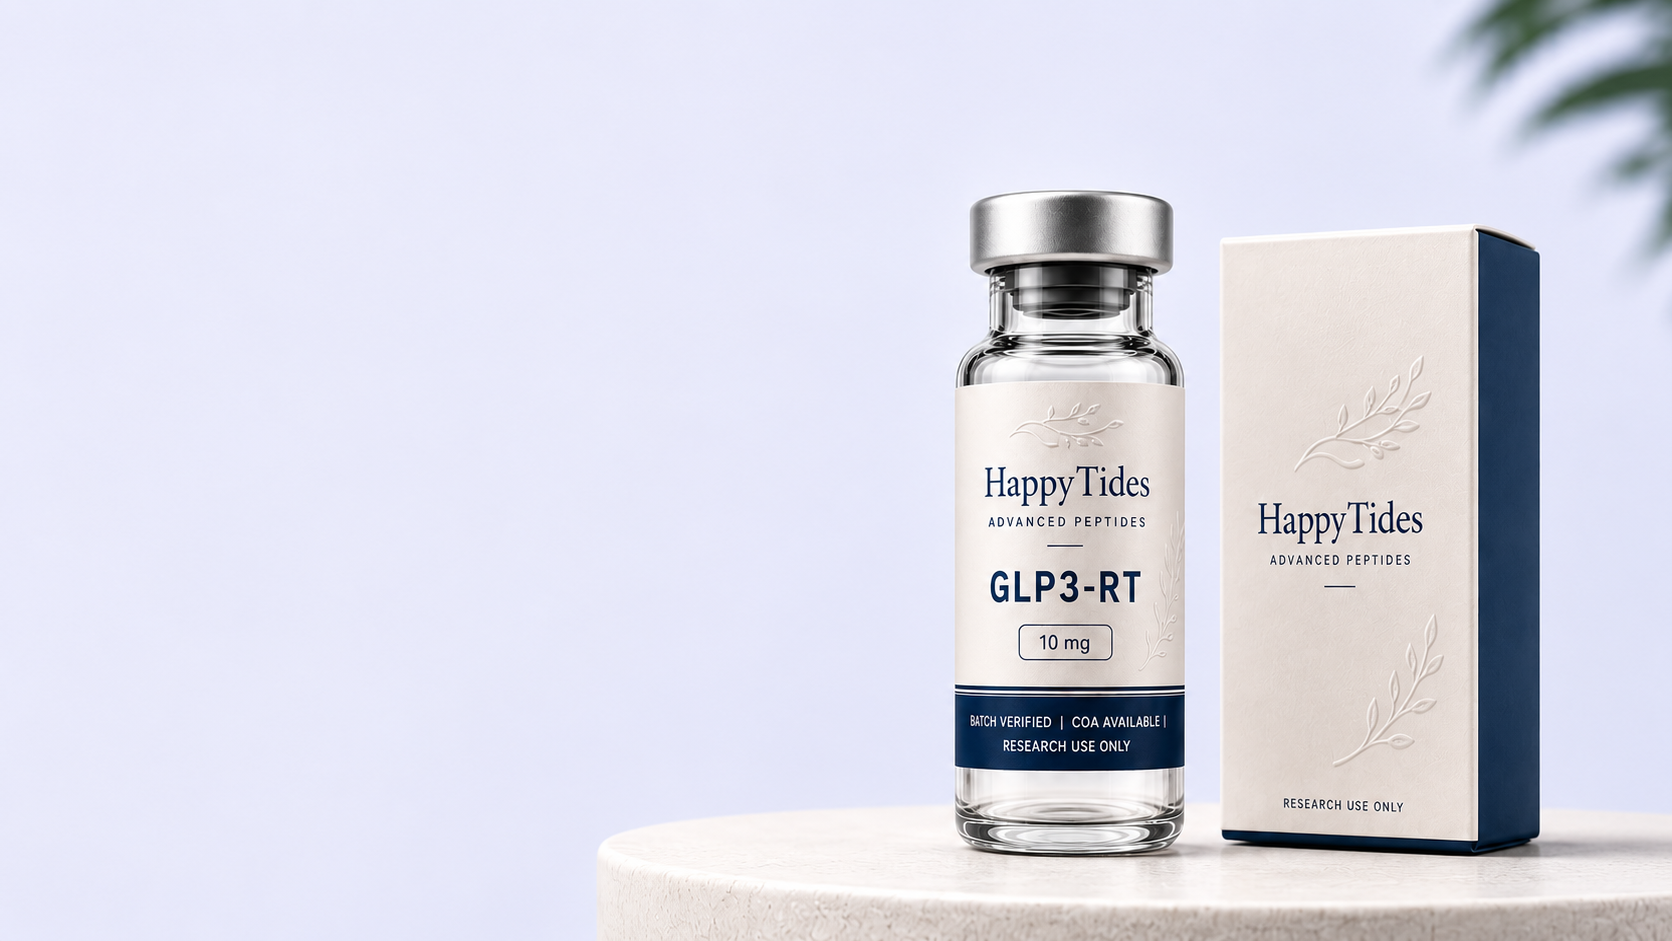
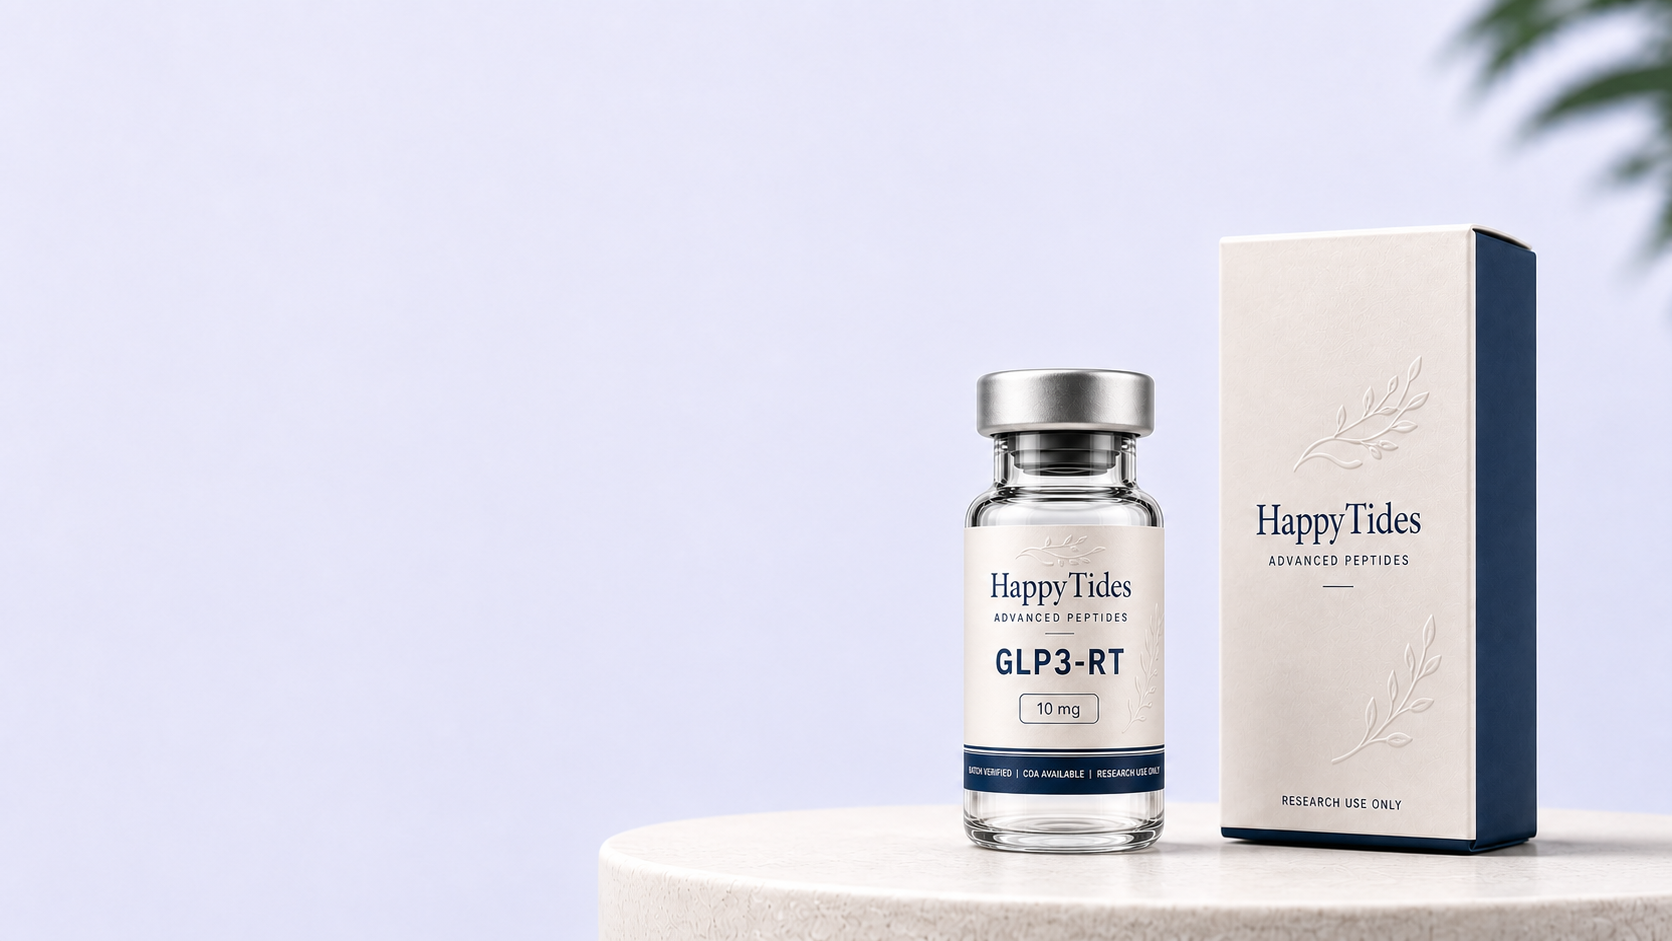
feat: enhance homepage with secure connection info and update metadata

diff --git a/components/launch-access-form.tsx b/components/launch-access-form.tsx
@@ -1,46 +1,17 @@
 "use client"
 
 import { useState } from "react"
-import { ArrowRight, Mail, Phone, ShieldCheck, User, Tag, AlertCircle } from "lucide-react"
+import { ArrowRight, Mail, Phone, ShieldCheck, User, Tag } from "lucide-react"
 
 export function LaunchAccessForm() {
   const [submitted, setSubmitted] = useState(false)
   const [loading, setLoading] = useState(false)
   const [error, setError] = useState("")
-  const [validationErrors, setValidationErrors] = useState<Record<string, string>>({})
   const [form, setForm] = useState({ name: "", email: "", phone: "", affiliateCode: "" })
-
-  function validateForm() {
-    const errors: Record<string, string> = {}
-
-    if (!form.name.trim()) {
-      errors.name = "Please enter your full name"
-    }
-
-    if (!form.email.trim()) {
-      errors.email = "Please enter your email address"
-    } else if (!/^[^\s@]+@[^\s@]+\.[^\s@]+$/.test(form.email)) {
-      errors.email = "Please enter a valid email address (example: [email redacted])"
-    }
-
-    if (!form.phone.trim()) {
-      errors.phone = "Please enter your phone number"
-    } else if (form.phone.length < 10) {
-      errors.phone = "Please enter a complete phone number (at least 10 digits)"
-    }
-
-    setValidationErrors(errors)
-    return Object.keys(errors).length === 0
-  }
 
   async function handleSubmit(e: React.FormEvent) {
     e.preventDefault()
     setError("")
-
-    if (!validateForm()) {
-      return
-    }
-
     setLoading(true)
 
     try {
@@ -137,7 +108,6 @@ export function LaunchAccessForm() {
   return (
     <form
       onSubmit={handleSubmit}
-      noValidate
       className="rounded-3xl p-6"
       style={{
         border: "1px solid #e5e7eb",
@@ -161,29 +131,14 @@ export function LaunchAccessForm() {
               id="la-name"
               name="name"
               type="text"
+              required
               value={form.name}
-              onChange={(e) => {
-                setForm({ ...form, name: e.target.value })
-                if (validationErrors.name) {
-                  setValidationErrors({ ...validationErrors, name: "" })
-                }
-              }}
+              onChange={(e) => setForm({ ...form, name: e.target.value })}
               placeholder="Your full name"
               className={inputClass}
-              style={{
-                ...inputStyle,
-                borderColor: validationErrors.name ? "#fecaca" : "#e5e7eb",
-              }}
+              style={inputStyle}
             />
           </div>
-          {validationErrors.name && (
-            <div className="mt-2 flex items-start gap-2">
-              <AlertCircle className="h-4 w-4 flex-shrink-0 mt-0.5" style={{ color: "#dc2626" }} />
-              <span className="text-sm" style={{ color: "#dc2626" }}>
-                {validationErrors.name}
-              </span>
-            </div>
-          )}
         </div>
 
         {/* Email */}
@@ -201,29 +156,14 @@ export function LaunchAccessForm() {
               id="la-email"
               name="email"
               type="email"
+              required
               value={form.email}
-              onChange={(e) => {
-                setForm({ ...form, email: e.target.value })
-                if (validationErrors.email) {
-                  setValidationErrors({ ...validationErrors, email: "" })
-                }
-              }}
+              onChange={(e) => setForm({ ...form, email: e.target.value })}
               placeholder="[email redacted]"
               className={inputClass}
-              style={{
-                ...inputStyle,
-                borderColor: validationErrors.email ? "#fecaca" : "#e5e7eb",
-              }}
+              style={inputStyle}
             />
           </div>
-          {validationErrors.email && (
-            <div className="mt-2 flex items-start gap-2">
-              <AlertCircle className="h-4 w-4 flex-shrink-0 mt-0.5" style={{ color: "#dc2626" }} />
-              <span className="text-sm" style={{ color: "#dc2626" }}>
-                {validationErrors.email}
-              </span>
-            </div>
-          )}
         </div>
 
         {/* Phone */}
@@ -241,30 +181,17 @@ export function LaunchAccessForm() {
               id="la-phone"
               name="phone"
               type="tel"
+              required
               value={form.phone}
               onChange={(e) => {
                 const numbersOnly = e.target.value.replace(/\D/g, "")
                 setForm({ ...form, phone: numbersOnly })
-                if (validationErrors.phone) {
-                  setValidationErrors({ ...validationErrors, phone: "" })
-                }
               }}
               placeholder="(555) 123-4567"
               className={inputClass}
-              style={{
-                ...inputStyle,
-                borderColor: validationErrors.phone ? "#fecaca" : "#e5e7eb",
-              }}
+              style={inputStyle}
             />
           </div>
-          {validationErrors.phone && (
-            <div className="mt-2 flex items-start gap-2">
-              <AlertCircle className="h-4 w-4 flex-shrink-0 mt-0.5" style={{ color: "#dc2626" }} />
-              <span className="text-sm" style={{ color: "#dc2626" }}>
-                {validationErrors.phone}
-              </span>
-            </div>
-          )}
         </div>
 
         {/* Affiliate Code */}

diff --git a/app/layout.tsx b/app/layout.tsx
@@ -20,12 +20,25 @@ const playfair = Playfair_Display({
 })
 
 export const metadata: Metadata = {
-  title: 'HappyTides™',
+  title: 'HappyTides — Advanced Research Peptides',
   description:
-    'Join the waitlist for exclusive early access to our launch.',
+    'Research-use peptide materials with Certificate of Analysis on every batch. Batch documentation, COA access, and clear labeling you can rely on.',
   generator: 'v0.app',
   icons: {
-    icon: '/favicon.png',
+    icon: [
+      {
+        url: '/icon-light-32x32.png',
+        media: '(prefers-color-scheme: light)',
+      },
+      {
+        url: '/icon-dark-32x32.png',
+        media: '(prefers-color-scheme: dark)',
+      },
+      {
+        url: '/icon.svg',
+        type: 'image/svg+xml',
+      },
+    ],
     apple: '/apple-icon.png',
   },
 }

diff --git a/app/page.tsx b/app/page.tsx
@@ -1,3 +1,11 @@
+import { SiteHeader } from "@/components/site-header"
+import { HeroSection } from "@/components/hero-section"
+
 export default function Page() {
-  return null
+  return (
+    <main className="flex min-h-screen flex-col bg-background lg:h-screen lg:overflow-hidden">
+      <SiteHeader />
+      <HeroSection />
+    </main>
+  )
 }

diff --git a/app/launch-access/page.tsx b/app/launch-access/page.tsx
@@ -36,6 +36,13 @@ export default function LaunchAccessPage() {
           <a href="/" aria-label="HappyTides home">
             <BrandLogo />
           </a>
+          <div
+            className="flex items-center gap-1.5 text-sm font-medium"
+            style={{ color: "#1e3a5f" }}
+          >
+            <Lock className="h-4 w-4" strokeWidth={2} />
+            <span>Secure connection</span>
+          </div>
         </div>
       </header>
 

diff --git a/components/brand-logo.tsx b/components/brand-logo.tsx
@@ -10,14 +10,13 @@ export function BrandLogo({ className, showText = true }: BrandLogoProps) {
         src="/images/leaf-logo.png"
         alt="HappyTides leaf emblem"
         className="h-9 w-16 shrink-0 object-contain object-center sm:w-20"
-        style={{ marginLeft: "-13px" }}
       />
       {showText && (
         <div className="leading-none">
-          <span className="block font-serif text-2xl font-semibold tracking-tight text-navy" style={{ marginLeft: "-14px" }}>
+          <span className="block font-serif text-2xl font-semibold tracking-tight text-navy">
             HappyTides
           </span>
-          <span className="mt-1 block text-[10px] font-medium uppercase tracking-[0.32em] text-navy/70" style={{ marginLeft: "-14px" }}>
+          <span className="mt-1 block text-[10px] font-medium uppercase tracking-[0.32em] text-navy/70">
             Advanced Peptides
           </span>
         </div>